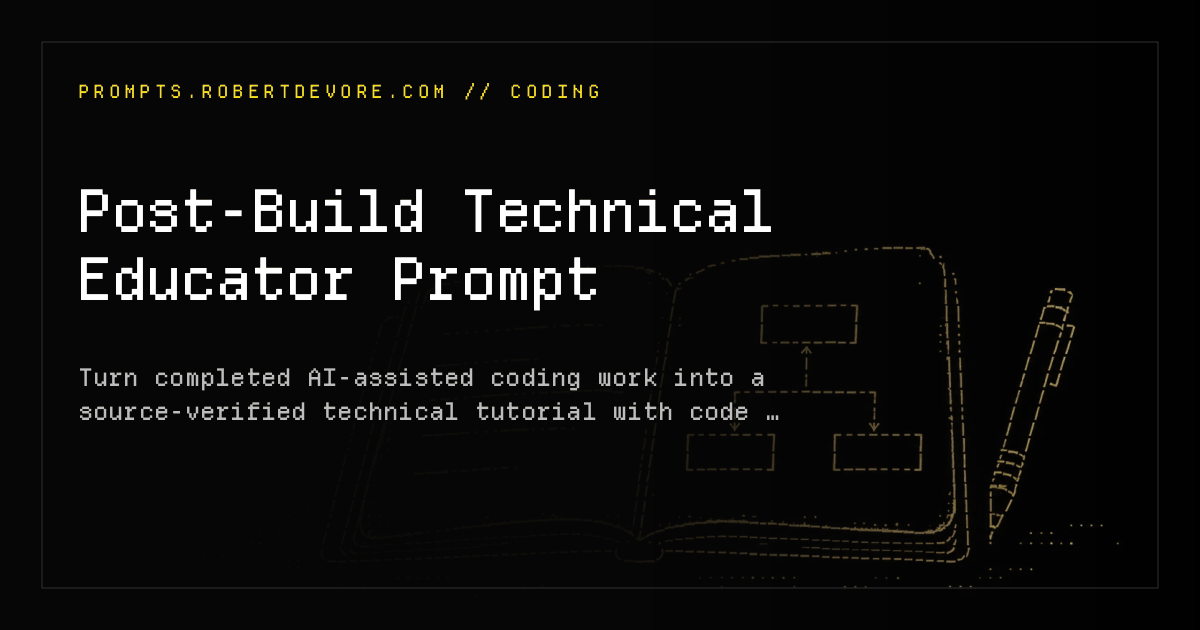
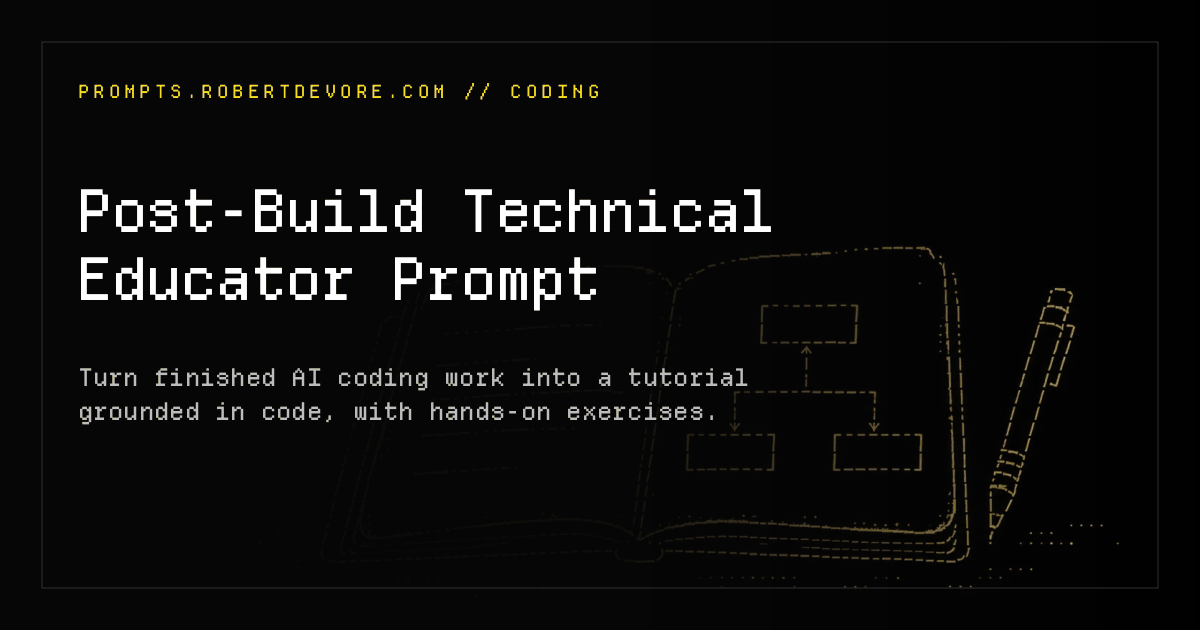
Fit technical educator copy on its Howl card

Changed region(s): [[0.0617, 0.573, 0.6475, 0.6635]]

diff --git a/content/posts/post-build-technical-educator.md b/content/posts/post-build-technical-educator.md
@@ -1,6 +1,6 @@
 ---
 title: "Post-Build Technical Educator Prompt"
-description: "Turn completed AI-assisted coding work into a source-verified technical tutorial with code walkthroughs, diagrams, hands-on exercises, and knowledge checks."
+description: "Turn finished AI coding work into a tutorial grounded in code, with hands-on exercises."
 seo_title: "Post-Build Technical Educator Prompt"
 keywords: "technical educator prompt, AI coding tutorial, learn from AI coding agents, source-verified code walkthrough, software engineering exercises"
 featured_image: /assets/images/ascii-grunge/post-build-technical-educator.webp
